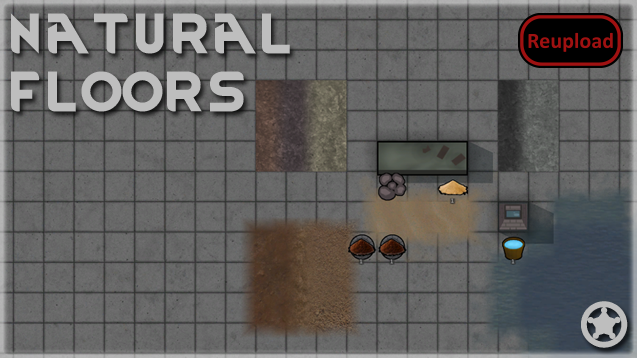
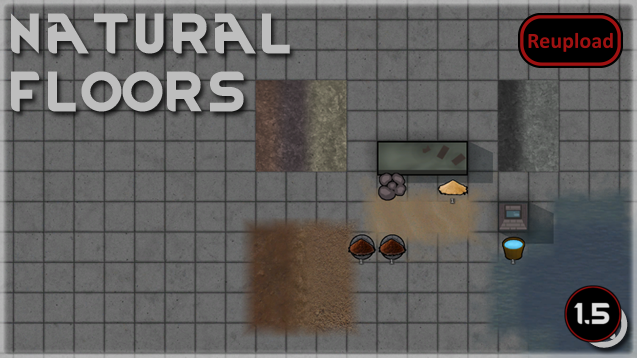
Mod updated for 1.5 and passed autotests

Changed region(s): [[0.865, 0.7989, 0.9843, 0.9832]]

diff --git a/README.md b/README.md
@@ -22,10 +22,13 @@ Adds buildable natural floors. A well can be placed near a natural water source 
 
 -  See if the the error persists if you just have this mod and its requirements active.
 -  If not, try adding your other mods until it happens again.
--  Post your error-log using https://steamcommunity.com/workshop/filedetails/?id=818773962]HugsLib and command Ctrl+F12
+-  Post your error-log using https://steamcommunity.com/workshop/filedetails/?id=818773962]HugsLib or the standalone https://steamcommunity.com/sharedfiles/filedetails/?id=2873415404]Uploader and command Ctrl+F12
 -  For best support, please use the Discord-channel for error-reporting.
 -  Do not report errors by making a discussion-thread, I get no notification of that.
 -  If you have the solution for a problem, please post it to the GitHub repository.
+-  Use https://github.com/RimSort/RimSort/releases/latest]RimSort to sort your mods
 
 
+
+https://steamcommunity.com/sharedfiles/filedetails/changelog/2618631108]![Image](https://img.shields.io/github/v/release/emipa606/NaturalFloors?label=latest%20version&style=plastic&color=9f1111&labelColor=black)
 
